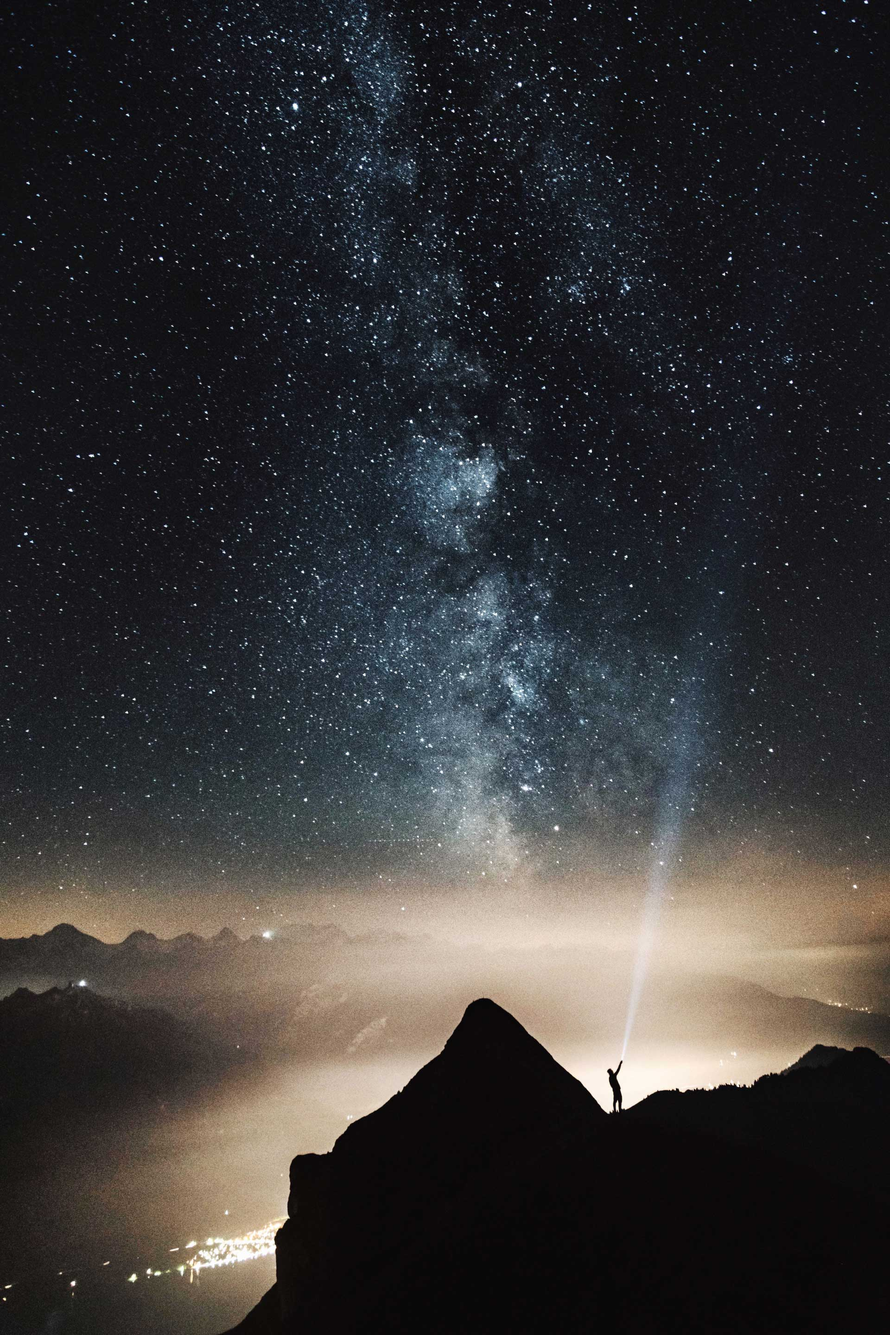
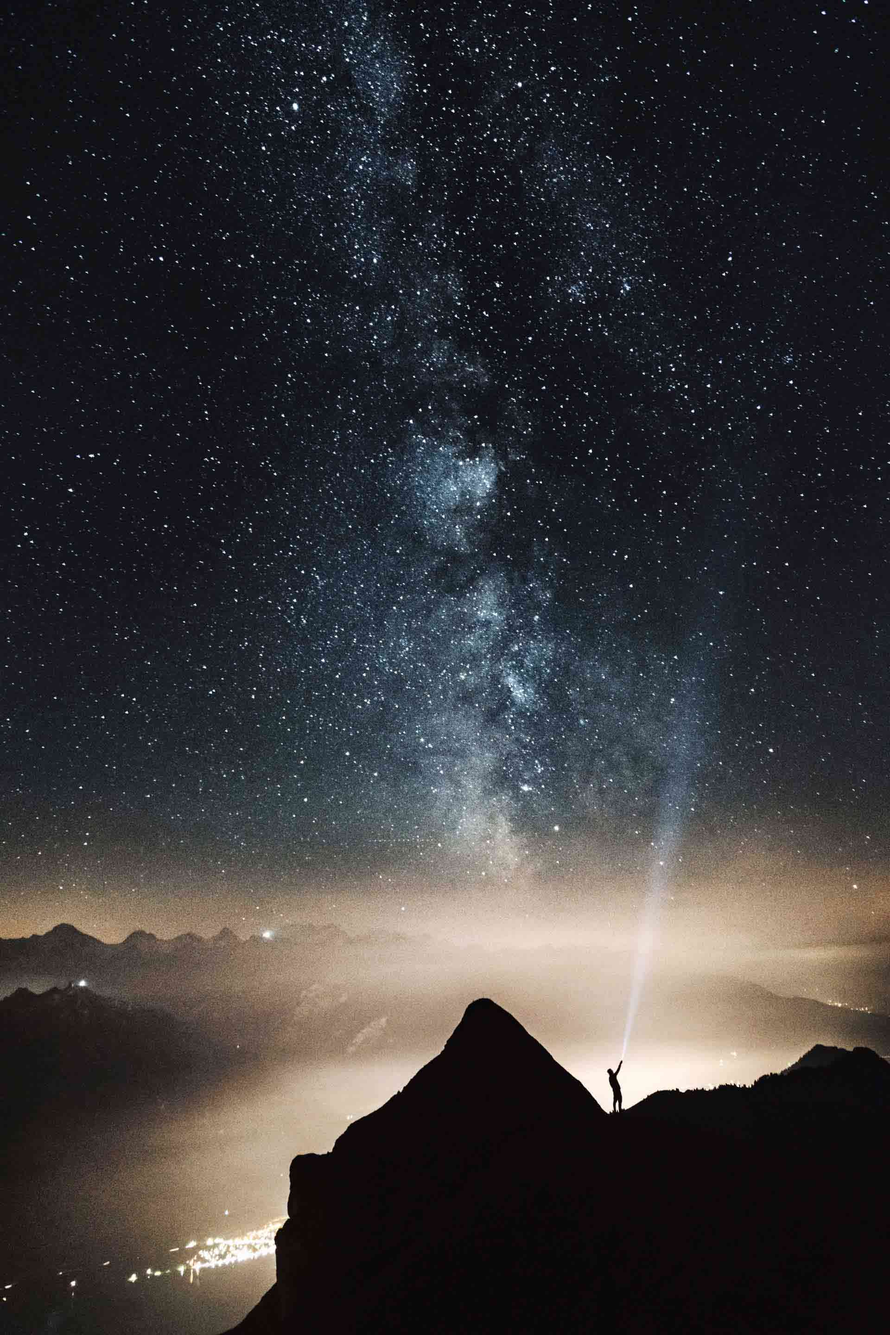
Updated writings
- Changed random thoughts
- Changed purpose over passion

diff --git a/_sass/_homepage.scss b/_sass/_homepage.scss
@@ -3,7 +3,7 @@
 // It lies in <source>/_sass, just waiting to be imported.
 // It does not contain the YAML front matter and has no corresponding output file in the built site.
 #homepage {
-	background: linear-gradient( rgba(0, 0, 0, 0.2), rgba(0, 0, 0, 0) ), url("imgs/bg-2.jpg");
+	background: linear-gradient( rgba(0, 0, 0, 0), rgba(0, 0, 0, 0) ), url("imgs/bg-2.jpg");
 	background-size: cover;
 }
 

diff --git a/_sass/_blog.scss b/_sass/_blog.scss
@@ -7,7 +7,6 @@
 .writing {
 	padding: 150px 60px 100px;
 	align-items: flex-start;
-	min-height: 100vh;
 
 	.left, .right {
 		max-width: 600px;
@@ -160,7 +159,7 @@
 
 		.right {
 			p {
-
+				font-size: 18px;
 			}
 		}
 	}
@@ -182,6 +181,7 @@
 	background-size: cover;
 	background-position: center;
 	color: white;
+	min-height: 100vh;
 }
 
 // 003
